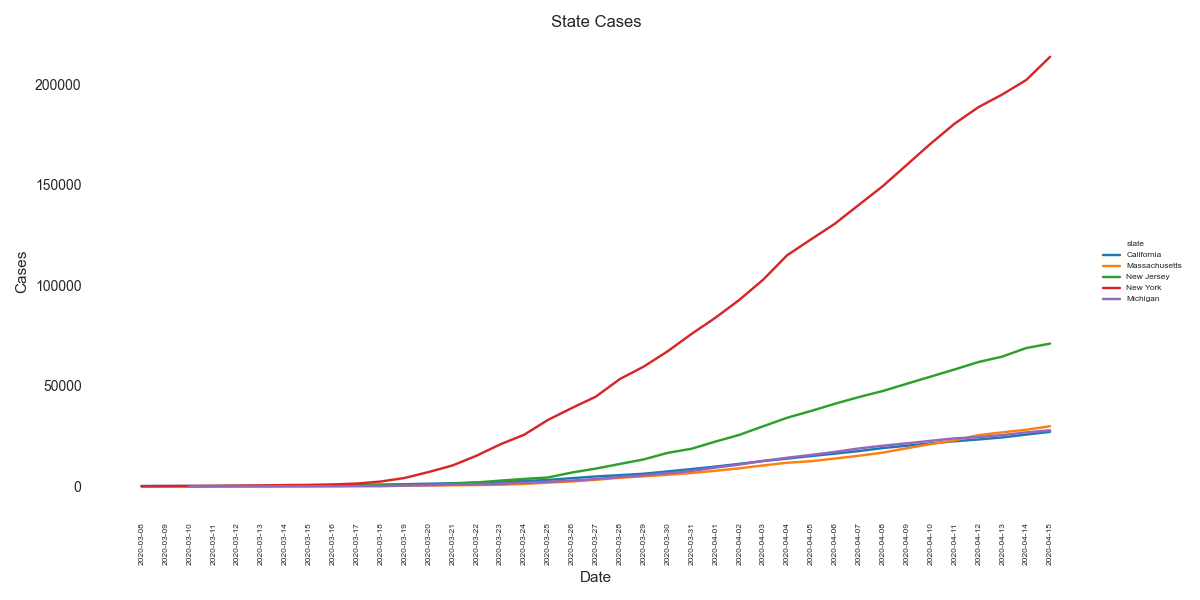
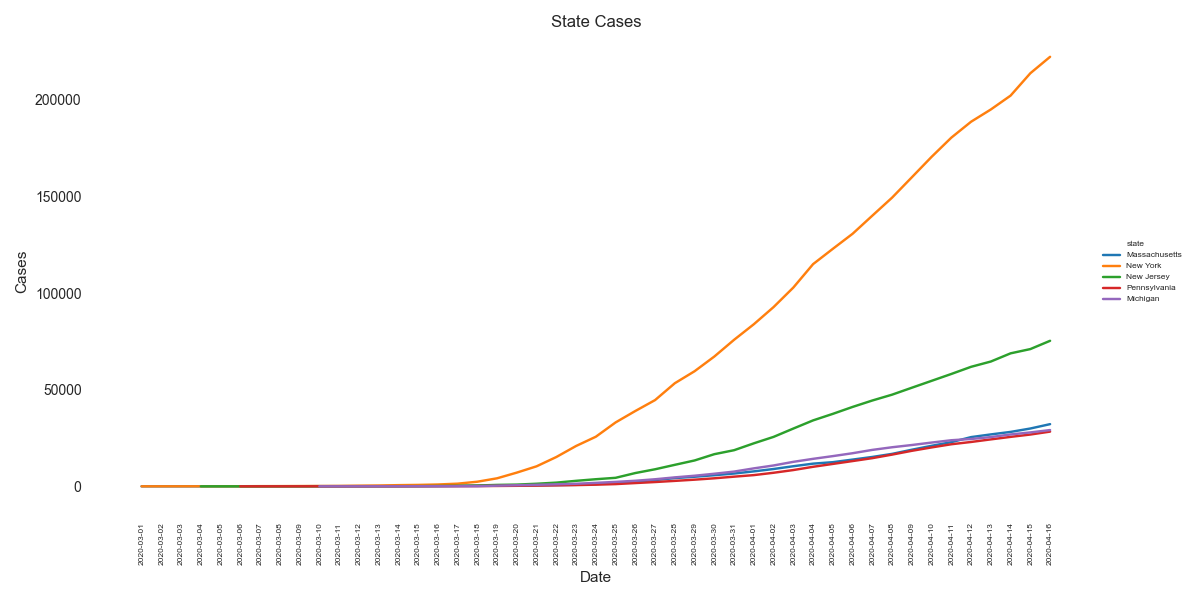
New data.

diff --git a/README.md b/README.md
@@ -4,8 +4,8 @@ In this forked repo from the New York Times, I've written a module in Python wit
 Cases Per County in Wisconsin Since March 8, 2020  
 ![Case Counts per County in Wisconsin](https://github.com/dgellerup/covid-19-data/blob/master/plots/wisconsin.gif)  
 
-Case Counts for 5 Most-Affected States From March 1, 2020 to April 15, 2020
-![Case Counts for 5 Most-Affected States From March 1, 2020 to April 15, 2020](https://github.com/dgellerup/covid-19-data/blob/master/plots/plot.png)
+Case Counts for 5 Most-Affected States From March 1, 2020 to April 16, 2020
+![Case Counts for 5 Most-Affected States From March 1, 2020 to April 16, 2020](https://github.com/dgellerup/covid-19-data/blob/master/plots/plot.png)
 
 # Coronavirus (Covid-19) Data in the United States
 
